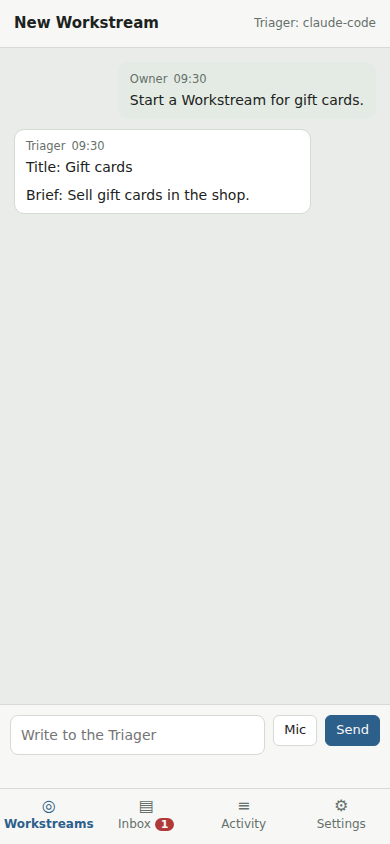
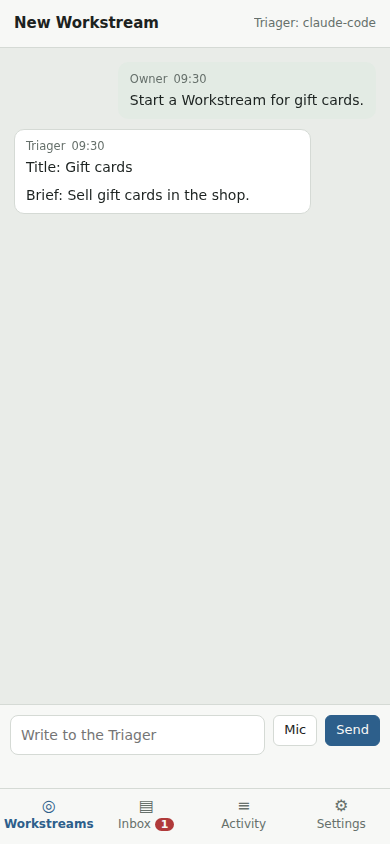
Scroll the message list to the bottom for each new message (#171)

Changed region(s): [[0.0615, 0.154, 0.6462, 0.2464], [0.3385, 0.0924, 0.7385, 0.1232], [0.7692, 0.0924, 0.9231, 0.1232]]

diff --git a/crates/mobius-ui/assets/main.css b/crates/mobius-ui/assets/main.css
@@ -469,6 +469,7 @@ button.chip.on {
   flex: 1;
   min-height: 0;
   overflow-y: auto;
+  overscroll-behavior: contain;
   display: flex;
   flex-direction: column;
   gap: 10px;

diff --git a/crates/mobius-ui/src/lib.rs b/crates/mobius-ui/src/lib.rs
@@ -1238,6 +1238,75 @@ fn Conversation(
         .find(|message| message.author != Author::Owner)
         .map(|message| message.id);
     let unread = state.unread.read().get(&key).copied().unwrap_or(0);
+    // A new workstream or a new last message always scrolls the list to the bottom. The
+    // growth of the last message or a new state of the agent scrolls only while the
+    // owner is pinned at the bottom, so a reply in parts does not move an owner who
+    // scrolled up. The script waits for a frame, so the scroll uses the DOM with the
+    // update.
+    let message_count = messages.len();
+    let last_message = messages
+        .last()
+        .map(|message| (message.id, message.text.len()));
+    let history_error = matches!(&*history.read(), Some(Err(_)));
+    let mut scroll_mark = use_signal(|| (String::new(), String::new(), 0i64, 0usize, 0i64));
+    use_effect(use_reactive(
+        (
+            &organization,
+            &repository,
+            &number,
+            &message_count,
+            &last_message,
+            &lead_state,
+            &history_error,
+        ),
+        move |(organization, repository, number, message_count, last_message, _, _)| {
+            let mark = (
+                organization,
+                repository,
+                number,
+                message_count,
+                last_message.map(|(id, _)| id).unwrap_or(0),
+            );
+            let force = if *scroll_mark.peek() != mark {
+                scroll_mark.set(mark);
+                true
+            } else {
+                false
+            };
+            // The observer keeps the list at the bottom when it shrinks or grows while the
+            // owner is already at the bottom, for example when the keyboard opens.
+            document::eval(&format!(
+                r#"
+                requestAnimationFrame(() => {{
+                    const list = document.querySelector(".msgs");
+                    if (!list) {{
+                        return;
+                    }}
+                    if (!list.__mobiusScroll) {{
+                        const state = {{ pinned: true }};
+                        list.__mobiusScroll = state;
+                        list.addEventListener("scroll", () => {{
+                            state.pinned =
+                                list.scrollHeight - list.scrollTop - list.clientHeight < 40;
+                        }});
+                        state.observer = new ResizeObserver(() => {{
+                            if (state.pinned) {{
+                                list.scrollTop = list.scrollHeight;
+                            }}
+                        }});
+                        state.observer.observe(list);
+                    }}
+                    if ({force}) {{
+                        list.__mobiusScroll.pinned = true;
+                    }}
+                    if (list.__mobiusScroll.pinned) {{
+                        list.scrollTop = list.scrollHeight;
+                    }}
+                }});
+                "#,
+            ));
+        },
+    ));
     use_effect(use_reactive(
         (
             &organization,

diff --git a/crates/mobius-testkit/tests/screenshots.rs b/crates/mobius-testkit/tests/screenshots.rs
@@ -322,6 +322,77 @@ async fn log_in(browser: &Browser, url: &str) {
     page.close().await.unwrap();
 }
 
+// The server-side render shows the page before the app hydrates. The scroll effect sets
+// `__mobiusScroll` only when the app runs, so it marks a live page.
+async fn wait_until_live(page: &Page) {
+    wait_for(async || {
+        check(
+            page,
+            "(() => { const list = document.querySelector(\".msgs\");\
+             return !!(list && list.__mobiusScroll); })()"
+                .to_string(),
+        )
+        .await
+        .then_some(())
+    })
+    .await;
+}
+
+#[tokio::test]
+#[ignore = "starts Chrome and serves the web bundle in DIOXUS_PUBLIC_PATH"]
+async fn message_list_scrolls_to_the_bottom() {
+    let data_dir = TempDir::new().unwrap();
+    let github = FakeGitHub::start().await;
+    github.add_manifest_code("manifest-code");
+    install_fake_harness(data_dir.path(), FAKE_AGENT, "claude-agent-acp", CLAUDE);
+    let engine = start(data_dir.path(), "correct horse", &github.url).await;
+    let url = serve_ui(&engine).await;
+    github::convert_manifest(&engine, "manifest-code")
+        .await
+        .unwrap();
+    github.add_repository(REPOSITORY);
+    github.add_issue(REPOSITORY, 12, "Integrate loyalty plans");
+    github.add_label(REPOSITORY, 12, "mobius:workstream", "owner");
+    wait_for(async || (workstreams::list(&engine).await.unwrap().len() == 1).then_some(())).await;
+    let (mut browser, mut handler) = Browser::launch(
+        BrowserConfig::builder()
+            .no_sandbox()
+            .arg("--hide-scrollbars")
+            .build()
+            .unwrap(),
+    )
+    .await
+    .unwrap();
+    tokio::spawn(async move { while handler.next().await.is_some() {} });
+    log_in(&browser, &format!("{url}/github")).await;
+    for (name, width, height, mobile) in [DESKTOP, PHONE] {
+        let page = open(
+            &browser,
+            &format!("{url}/workstreams/owner/shop/12"),
+            (name, width, height, mobile),
+        )
+        .await;
+        wait_until_ready(&page, "Integrate loyalty plans", false).await;
+        wait_until_live(&page).await;
+        for n in 0..20 {
+            let text = format!("spam {name} {n} {}", "word ".repeat(40));
+            chat::send(&engine, "owner", REPOSITORY, 12, &text)
+                .await
+                .unwrap();
+        }
+        // The list must show the last message and overflow, or the scroll position proves nothing.
+        let script = format!(
+            "(() => {{ const list = document.querySelector(\".msgs\");\
+             return list.textContent.includes(\"spam {name} 19\") \
+             && list.scrollHeight > list.clientHeight \
+             && list.scrollHeight - list.scrollTop - list.clientHeight < 5; }})()"
+        );
+        wait_for(async || check(&page, script.clone()).await.then_some(())).await;
+        page.close().await.unwrap();
+    }
+    browser.close().await.unwrap();
+}
+
 // An empty chat opens with the Brief expanded; a click on its head leaves only the title.
 #[tokio::test]
 #[ignore = "starts Chrome and serves the web bundle in DIOXUS_PUBLIC_PATH"]
